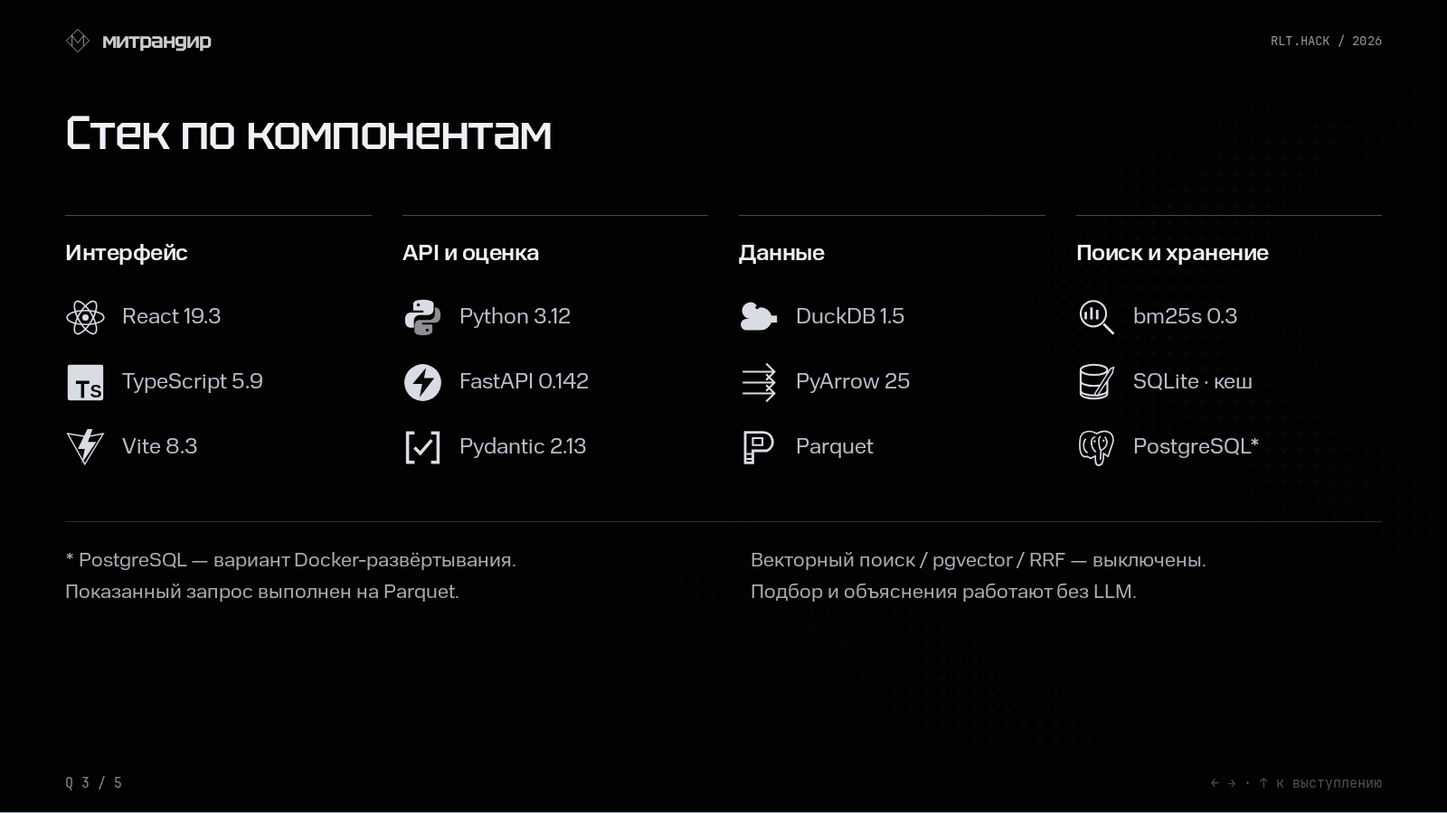
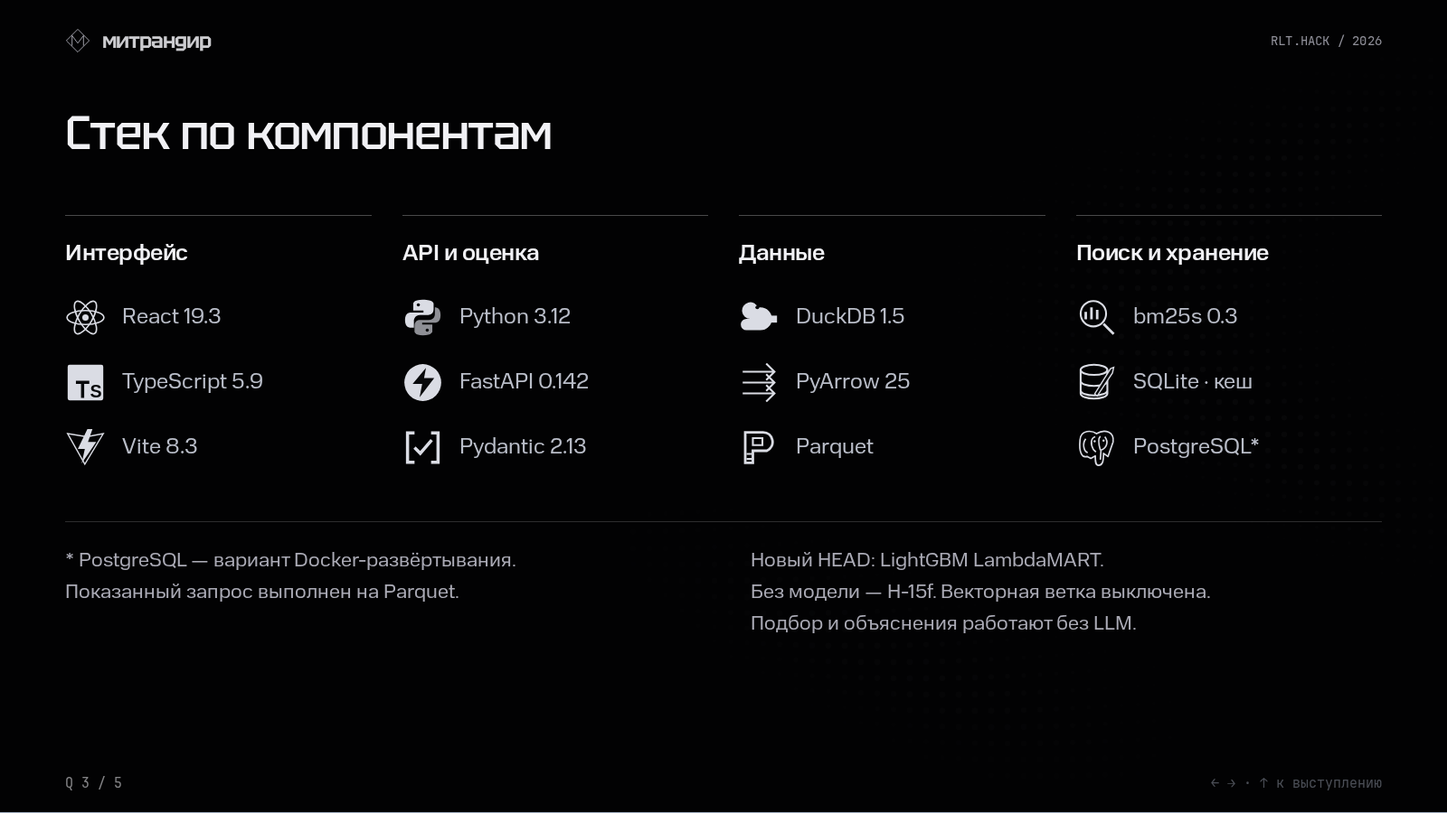
docs(pitch): distinguish captured H-15f example from new ranker (#331)

Changed region(s): [[0.5312, 0.6844, 0.8438, 0.7778]]

diff --git a/presentation/index.html b/presentation/index.html
@@ -38,12 +38,12 @@
 
 <section class="slide" id="s4" data-title="Как лот становится списком" data-seconds="65" data-kind="main" aria-label="Как лот становится списком" hidden>
 
-<h1>Как лот становится списком</h1><p class="slide-deck">BM25 находит тексты. Скоринг сравнивает компании.</p>
+<h1>Как рассчитан этот ответ</h1><p class="slide-deck">Сохранённый пример: BM25 + факторы H-15f.</p>
 <div class="architecture"><svg class="architecture-links" viewBox="0 0 1456 425" aria-hidden="true"><defs><marker id="arrowhead" viewBox="0 0 10 10" refX="9" refY="5" markerWidth="6" markerHeight="6" orient="auto"><path d="M0 0 10 5 0 10" fill="none" stroke="#a5a8b0"/></marker></defs><g fill="none" stroke="#777b86" stroke-width="1.4" marker-end="url(#arrowhead)"><path d="M450 99 H502"/><path d="M952 99 H1004"/><path d="M1230 163 V191 H438 V246"/><path d="M1007 163 V182 H727 V246"/></g></svg>
 <div class="lane-label">Подготовка</div><div class="prep flow"><div class="node"><h2>Выгрузка закупок</h2><p>Лоты · позиции · участия</p><span class="file-mark">CSV</span></div><div class="node"><h2>Нормализация</h2><p>Типы, дубли, ИНН</p><div class="brands"><span class="tech-brand"><img src="assets/tech/python.svg" alt="" width="28" height="28"><span>Python</span></span><span class="tech-brand"><img src="assets/tech/duckdb.svg" alt="" width="28" height="28"><span>DuckDB</span></span></div></div><div class="node"><h2>Данные + индекс текстов</h2><p>Позиции · предметы лотов</p><div class="brands"><span class="tech-brand"><img src="assets/tech/parquet.svg" alt="" width="28" height="28"><span>Parquet</span></span><span class="tech-brand"><img src="assets/tech/bm25s.svg" alt="" width="28" height="28"><span>bm25s</span></span></div></div></div>
 <div class="lane-label query-label">Запрос <span>Читаем подготовленные данные</span></div><div class="query-flow flow"><div class="node" data-step="1"><h2>Запрос / API</h2><p>Описание лота</p><div class="brands"><span class="tech-brand"><img src="assets/tech/react.svg" alt="" width="28" height="28"><span>React</span></span><span class="tech-brand"><img src="assets/tech/fastapi.svg" alt="" width="28" height="28"><span>FastAPI</span></span></div></div><div class="node" data-step="2"><h2>Поиск BM25</h2><p class="stage-count"><small>до</small> 500</p><p>текстов → лоты</p><div class="brands"><span class="tech-brand"><img src="assets/tech/bm25s.svg" alt="" width="28" height="28"><span>bm25s</span></span></div></div><div class="node" data-step="3"><h2>Участники → ИНН</h2><p class="stage-count"><small>до</small> 200</p><p>кандидатов</p><span class="tech">Связь по lot_id</span></div><div class="node" data-step="4"><h2>Ранжирование</h2><p>Score + причины</p><div class="brands"><span class="tech-brand"><img src="assets/tech/python.svg" alt="" width="28" height="28"><span>Python · H-15f</span></span></div></div><div class="node" data-step="5"><h2>Выдача</h2><p>Факты → фильтры<br>→ страница</p><div class="brands"><span class="tech-brand"><img src="assets/tech/react.svg" alt="" width="28" height="28"><span>React</span></span></div></div></div></div>
 <div class="architecture-foot"><span>К выдаче: кеш реестров + отдельный блок «Новые»</span><span>Без LLM · векторная ветка выключена</span></div>
-<aside class="speaker-note" hidden>Верхний контур работает при подготовке данных. Из CSV организаторов DuckDB собирает нормализованные извещения, позиции и участия. Поставщики объединяются по ИНН. В локальном варианте данные хранятся в Parquet; BM25 индексирует уникальные названия позиций и предметы лотов с участниками. Нижний контур обслуживает запрос. React передаёт его FastAPI. Поиск берёт до пятисот текстовых документов, связывает их с лотами, а лоты — с участниками. До двухсот кандидатов получают итоговую оценку и объяснения. Только после ранжирования конвейер добавляет факты из кеша, объединяет отдельный блок найденных через реестры компаний, применяет юридические и пользовательские фильтры. API делит результат на страницы и проверяет показываемые факты. Фоновый воркер может обновлять обогащение. Сейчас включены BM25 и H-15f; векторная ветка реализована отдельно, но выключена. Генеративная модель этому пути не нужна.<br><br>Переход: Из каких конкретно свидетельств складывается оценка компании?</aside>
+<aside class="speaker-note" hidden>Верхний контур работает при подготовке данных. Из CSV организаторов DuckDB собирает нормализованные извещения, позиции и участия. Поставщики объединяются по ИНН. В локальном варианте данные хранятся в Parquet; BM25 индексирует уникальные названия позиций и предметы лотов с участниками. Нижний контур обслуживает запрос. React передаёт его FastAPI. Поиск берёт до пятисот текстовых документов, связывает их с лотами, а лоты — с участниками. До двухсот кандидатов получают итоговую оценку и объяснения. Только после ранжирования конвейер добавляет факты из кеша, объединяет отдельный блок найденных через реестры компаний, применяет юридические и пользовательские фильтры. API делит результат на страницы и проверяет показываемые факты. Фоновый воркер может обновлять обогащение. В этом сохранённом ответе работал H-15f. В новом коде после этих факторов включён обученный LightGBM LambdaMART; это отдельная версия ранжирования. Векторная ветка выключена. Генеративная модель не нужна.<br><br>Переход: Из каких конкретно свидетельств складывается оценка компании?</aside>
 </section>
 
 <section class="slide" id="s5" data-title="126 лотов за оценкой" data-seconds="55" data-kind="main" aria-label="За оценкой — история компании" hidden>
@@ -51,14 +51,14 @@
 <h1>126 лотов за оценкой</h1><p class="slide-deck">ТСК ВЕКТОР ЛАЙН · картриджи для принтеров</p>
 <div class="explanation"><div class="evidence-card"><div class="evidence-counts"><div><strong>126</strong><span>похожих лотов</span></div><div><strong>36</strong><span>побед</span></div></div><div class="lot-proof"><span>Лот № 5424546 · 02.12.2024</span><blockquote>«Поставка картриджей<br>для принтеров»</blockquote><p>Компания участвовала в закупке.</p></div></div>
 <div class="factors"><div class="factor" data-step="1"><div><h2>Соответствие</h2><code>1 × 0.762</code></div><p>Текст + ОКПД2</p><div class="meter"><i style="width:76.2%"></i></div></div><div class="factor" data-step="2"><div><h2>Опыт</h2><code>1 × 0.190</code></div><p>Похожие лоты и победы</p><div class="meter mint-meter"><i style="width:19%"></i></div></div><div class="factor" data-step="3"><div><h2>Активность</h2><code>0.9923 × 0.048</code></div><p>Последнее участие: 30.12.2025</p><div class="meter lilac-meter"><i style="width:4.76304%"></i></div></div></div>
-<div class="score-total"><span>Score</span><strong>0.9996</strong><p>Рейтинг<br>кандидата</p></div></div>
+<div class="score-total"><span>Score</span><strong>0.9996</strong><p>Рейтинг<br>в примере</p></div></div>
 <p class="takeaway compact">Участие и победы не доказывают качество поставки.</p>
 <aside class="speaker-note" hidden>Вернёмся к картриджам. Среди свидетельств — лот 5424546 с таким же названием позиции; компания участвовала в нём второго декабря 2024 года. Соответствие товара объединяет нормированный BM25 и глубину совпадения ОКПД2 по истории компании. Опыт учитывает сто двадцать шесть похожих лотов и тридцать шесть побед, но насыщается: больше истории не повышает его бесконечно. Активность здесь — последнее участие за день до конца выгрузки. Умножаем три значения на стандартные веса и получаем 0.9996. Первые четыре результата имеют такой же итог: порядок при равенстве задают BM25, затем ИНН. Мы не утверждаем, что первая компания объективно лучше всех. Цена и надёжность исполнения в оценку не входят — этих данных нет.<br><br>Переход: Проверили ли мы, что этот способ ранжирования полезнее одного текстового сходства?</aside>
 </section>
 
 <section class="slide" id="s6" data-title="49,1% вместо 44,9%" data-seconds="55" data-kind="main" aria-label="49,1% вместо 44,9%" hidden>
 
-<h1>49,1% вместо 44,9%</h1><p class="slide-deck">Полнота первых 10 поставщиков · Recall@10</p>
+<h1>49,1% вместо 44,9%</h1><p class="slide-deck">Recall@10 · исторический вариант H-15f</p>
 <div class="evaluation"><div class="chart" role="img" aria-label="Recall at 10: BM25 44,9%, H-15f 49,1%. Общая шкала 0–100%; показаны 95-процентные bootstrap-интервалы."><div class="chart-row"><div class="chart-title">BM25 <strong>44,9%</strong></div><div class="chart-track"><span style="width:44.9076136364%"></span><i style="left:42.8813758568%;width:4.0048732864%"></i></div></div><div class="chart-row current"><div class="chart-title">BM25 + скоринг H-15f <strong>49,1%</strong></div><div class="chart-track"><span style="width:49.0522979798%"></span><i style="left:47.1269041757%;width:3.9488530844%"></i></div></div><div class="chart-axis"><span>0%</span><span>50%</span><span>100%</span></div></div>
 <div class="eval-context"><div class="delta"><strong>+4,14</strong><span>процентного пункта</span></div><div class="sample"><b>2 000</b><span>одинаковых dev-запросов</span></div></div></div>
 <div class="eval-boundary"><span>Релевантность: участники из истории</span><span>Веса настроены на dev; holdout не измерен</span></div>
@@ -73,13 +73,13 @@
 <aside class="speaker-note" hidden>Уже работает полный сценарий: описать потребность, получить поставщиков, проверить основания и выгрузить список. REST API и OpenAPI дают интерфейс для подключения, но внедрение в АИС ГЗ пока не подтверждено. Следующий практический шаг — согласовать пилот и проверить рекомендации с заказчиком на независимой выборке. На экране оставлены основания результата и материалы для ваших вопросов.<br><br>Переход: Пауза для вопросов. Запасные слайды открываются только вручную.</aside>
 </section>
 
-<section class="slide" id="b1" data-title="Как именно считается score?" data-seconds="0" data-kind="backup" aria-label="Как именно считается score?" hidden><h1>Из чего складывается score</h1><div class="formula-main">S = <span>0.762 F</span> + <span class="mint">0.190 E</span> + <span class="lilac">0.048 A</span></div><div class="backup-grid"><article class="node"><h2>F · соответствие</h2><code>0.8 B + 0.2 D</code><p>B = BM25 / лучший BM25<br>D = глубина ОКПД2<br>1 / 0.75 / 0.5 / 0.25 / 0</p><p>Без кода: F = B</p></article><article class="node"><h2>E · опыт</h2><code>½ sat(L,20) + ½ sat(W,10)</code><p>sat(n,c) = min(1,<br>ln(1+n) / ln(1+c))</p><p>L — похожие лоты<br>W — победы в них</p></article><article class="node"><h2>A · активность</h2><code>2<sup>−дни / 90</sup></code><p>От последнего участия<br>до конца данных.<br>В backtest — до cutoff.</p><p>Это не готовность ответить.</p></article></div><p class="backup-note">Компоненты и итог округляются до 4 знаков. Равенство: score ↓, BM25 ↓, ИНН ↑.<br>География — вес 0. Цена / reliability — нет данных. Пресеты UI не меняют API/XLSX.</p><aside class="speaker-note" hidden>B — лучший BM25 компании, делённый на максимум среди кандидатов. D — глубина совпадения ОКПД2: точный код один, подкатегория 0.75, группа 0.5, класс 0.25; при отсутствии кода запроса используется только B. sat(n,c) — минимум единицы и ln(1+n)/ln(1+c). L и W считаются среди найденных похожих лотов. Дата активности в продукте — конец данных. Компоненты округляются до четырёх знаков до суммирования. География отображается с нулевым весом, цена и reliability недоступны. Браузерные пресеты меняют только локально полученные результаты, экспорт остаётся стандартным.<br><br>Переход: Вернуться к основному экрану / выбрать другой вопрос.</aside></section>
+<section class="slide" id="b1" data-title="Как именно считается score?" data-seconds="0" data-kind="backup" aria-label="Как именно считается score?" hidden><h1>Формула показанного примера</h1><div class="formula-main">S = <span>0.762 F</span> + <span class="mint">0.190 E</span> + <span class="lilac">0.048 A</span></div><div class="backup-grid"><article class="node"><h2>F · соответствие</h2><code>0.8 B + 0.2 D</code><p>B = BM25 / лучший BM25<br>D = глубина ОКПД2<br>1 / 0.75 / 0.5 / 0.25 / 0</p><p>Без кода: F = B</p></article><article class="node"><h2>E · опыт</h2><code>½ sat(L,20) + ½ sat(W,10)</code><p>sat(n,c) = min(1,<br>ln(1+n) / ln(1+c))</p><p>L — похожие лоты<br>W — победы в них</p></article><article class="node"><h2>A · активность</h2><code>2<sup>−дни / 90</sup></code><p>От последнего участия<br>до конца данных.<br>В backtest — до cutoff.</p><p>Это не готовность ответить.</p></article></div><p class="backup-note">Компоненты и итог округляются до 4 знаков. Равенство: score ↓, BM25 ↓, ИНН ↑.<br>География — вес 0. Цена / reliability — нет данных. Новая модель меняет порядок отдельно.</p><aside class="speaker-note" hidden>B — лучший BM25 компании, делённый на максимум среди кандидатов. D — глубина совпадения ОКПД2: точный код один, подкатегория 0.75, группа 0.5, класс 0.25; при отсутствии кода запроса используется только B. sat(n,c) — минимум единицы и ln(1+n)/ln(1+c). L и W считаются среди найденных похожих лотов. Дата активности в продукте — конец данных. Компоненты округляются до четырёх знаков до суммирования. География отображается с нулевым весом, цена и reliability недоступны. Браузерные пресеты меняют только локально полученные результаты, экспорт остаётся стандартным.<br><br>Переход: Вернуться к основному экрану / выбрать другой вопрос.</aside></section>
 
 <section class="slide" id="b2" data-title="Что проверяет backtest — и чего он не доказывает?" data-seconds="0" data-kind="backup" aria-label="Что проверяет backtest — и чего он не доказывает?" hidden><h1>Что именно измеряли</h1><div class="timeline"><div><b>История</b><span>до 01.07.2025</span></div><div class="selected"><b>Dev · 2 000 запросов</b><span>июль–сентябрь 2025</span></div><div class="pending"><b>Holdout</b><span>нет результата</span></div></div>
 <div class="eval-detail"><table><thead><tr><th>Метрика</th><th>BM25</th><th>H-15f</th></tr></thead><tbody><tr><td>Recall@10</td><td>0,449</td><td>0,491</td></tr><tr><td>MRR</td><td>0,358</td><td>0,374</td></tr><tr><td>nDCG@10</td><td>0,344</td><td>0,365</td></tr></tbody></table><div><p>ЭМ — ИНН подавших оферты.<br>АИС ГЗ — исполнители из выгрузки.</p><p>Запрос: предмет, позиции, ОКПД2.<br>Без текущих реестров и блока «Новые».</p><p class="muted">Веса подобраны на dev.<br>Дат появления оферт и побед нет.</p></div></div>
 <aside class="speaker-note" hidden>Все три строки измерены на одних и тех же двух тысячах dev-запросов. Recall@10 — средняя доля известных релевантных ИНН в первых десяти. MRR — обратная позиция первого релевантного ответа, nDCG@10 — качество порядка релевантных ответов в десятке. Релевантность в Электронном магазине задана офертами, в АИС ГЗ — исполнителями из выгрузки. История отсечена первым июля, запросы — июль–сентябрь 2025. Текущие реестры, фильтры по сегодняшним данным и блок новых компаний исключены. Веса настраивались на dev. Отдельных дат оферт и побед нет, поэтому полная доступность каждого факта к историческому моменту не доказана. Независимого holdout нет. Это сохранённые отчёты конкретных версий, не новый замер всего текущего API.<br><br>Переход: Вернуться к основному экрану / выбрать другой вопрос.</aside></section>
 
-<section class="slide" id="b3" data-title="Какие компоненты запускаются на самом деле?" data-seconds="0" data-kind="backup" aria-label="Какие компоненты запускаются на самом деле?" hidden><h1>Стек по компонентам</h1><div class="stack-catalog"><article><h2>Интерфейс</h2><span class="tech-brand"><img src="assets/tech/react.svg" alt="" width="28" height="28"><span>React 19.3</span></span><span class="tech-brand"><img src="assets/tech/typescript.svg" alt="" width="28" height="28"><span>TypeScript 5.9</span></span><span class="tech-brand"><img src="assets/tech/vite.svg" alt="" width="28" height="28"><span>Vite 8.3</span></span></article><article><h2>API и оценка</h2><span class="tech-brand"><img src="assets/tech/python.svg" alt="" width="28" height="28"><span>Python 3.12</span></span><span class="tech-brand"><img src="assets/tech/fastapi.svg" alt="" width="28" height="28"><span>FastAPI 0.142</span></span><span class="tech-brand"><img src="assets/tech/pydantic.svg" alt="" width="28" height="28"><span>Pydantic 2.13</span></span></article><article><h2>Данные</h2><span class="tech-brand"><img src="assets/tech/duckdb.svg" alt="" width="28" height="28"><span>DuckDB 1.5</span></span><span class="tech-brand"><img src="assets/tech/pyarrow.svg" alt="" width="28" height="28"><span>PyArrow 25</span></span><span class="tech-brand"><img src="assets/tech/parquet.svg" alt="" width="28" height="28"><span>Parquet</span></span></article><article><h2>Поиск и хранение</h2><span class="tech-brand"><img src="assets/tech/bm25s.svg" alt="" width="28" height="28"><span>bm25s 0.3</span></span><span class="tech-brand"><img src="assets/tech/sqlite.svg" alt="" width="28" height="28"><span>SQLite · кеш</span></span><span class="tech-brand"><img src="assets/tech/postgresql.svg" alt="" width="28" height="28"><span>PostgreSQL*</span></span></article></div><div class="stack-status"><p>* PostgreSQL — вариант Docker-развёртывания.<br>Показанный запрос выполнен на Parquet.</p><p>Векторный поиск / pgvector / RRF — выключены.<br>Подбор и объяснения работают без LLM.</p></div><aside class="speaker-note" hidden>Снимок сделан на локальном parquet-варианте. PostgreSQL — поддерживаемое хранилище Docker-развёртывания, не база этого снимка. Кеш источников и очередь задач отделены от индекса. Реестровое обогащение может выполняться фоновым воркером, а исторический подбор читает кеш. Векторная ветка существует, но YAML выбирает BM25. Провайдер LLM в реализации возвращает NoLLM. Для показа самой презентации всё это запускать не требуется: это локальные HTML, CSS, JavaScript и снимки.<br><br>Переход: Вернуться к основному экрану / выбрать другой вопрос.</aside></section>
+<section class="slide" id="b3" data-title="Какие компоненты запускаются на самом деле?" data-seconds="0" data-kind="backup" aria-label="Какие компоненты запускаются на самом деле?" hidden><h1>Стек по компонентам</h1><div class="stack-catalog"><article><h2>Интерфейс</h2><span class="tech-brand"><img src="assets/tech/react.svg" alt="" width="28" height="28"><span>React 19.3</span></span><span class="tech-brand"><img src="assets/tech/typescript.svg" alt="" width="28" height="28"><span>TypeScript 5.9</span></span><span class="tech-brand"><img src="assets/tech/vite.svg" alt="" width="28" height="28"><span>Vite 8.3</span></span></article><article><h2>API и оценка</h2><span class="tech-brand"><img src="assets/tech/python.svg" alt="" width="28" height="28"><span>Python 3.12</span></span><span class="tech-brand"><img src="assets/tech/fastapi.svg" alt="" width="28" height="28"><span>FastAPI 0.142</span></span><span class="tech-brand"><img src="assets/tech/pydantic.svg" alt="" width="28" height="28"><span>Pydantic 2.13</span></span></article><article><h2>Данные</h2><span class="tech-brand"><img src="assets/tech/duckdb.svg" alt="" width="28" height="28"><span>DuckDB 1.5</span></span><span class="tech-brand"><img src="assets/tech/pyarrow.svg" alt="" width="28" height="28"><span>PyArrow 25</span></span><span class="tech-brand"><img src="assets/tech/parquet.svg" alt="" width="28" height="28"><span>Parquet</span></span></article><article><h2>Поиск и хранение</h2><span class="tech-brand"><img src="assets/tech/bm25s.svg" alt="" width="28" height="28"><span>bm25s 0.3</span></span><span class="tech-brand"><img src="assets/tech/sqlite.svg" alt="" width="28" height="28"><span>SQLite · кеш</span></span><span class="tech-brand"><img src="assets/tech/postgresql.svg" alt="" width="28" height="28"><span>PostgreSQL*</span></span></article></div><div class="stack-status"><p>* PostgreSQL — вариант Docker-развёртывания.<br>Показанный запрос выполнен на Parquet.</p><p>Новый HEAD: LightGBM LambdaMART.<br>Без модели — H-15f. Векторная ветка выключена.<br>Подбор и объяснения работают без LLM.</p></div><aside class="speaker-note" hidden>Снимок сделан на локальном parquet-варианте. PostgreSQL — поддерживаемое хранилище Docker-развёртывания, не база этого снимка. Кеш источников и очередь задач отделены от индекса. Реестровое обогащение может выполняться фоновым воркером, а исторический подбор читает кеш. Векторная ветка существует, но YAML выбирает BM25. Провайдер LLM в реализации возвращает NoLLM. Для показа самой презентации всё это запускать не требуется: это локальные HTML, CSS, JavaScript и снимки.<br><br>Переход: Вернуться к основному экрану / выбрать другой вопрос.</aside></section>
 
 <section class="slide" id="b4" data-title="Что происходит с компанией без истории?" data-seconds="0" data-kind="backup" aria-label="Что происходит с компанией без истории?" hidden><h1>Поставщики без истории</h1><div class="data-branches"><article class="node"><span class="label">ЕСТЬ В ИСТОРИИ</span><h2>604 452 лота<br>44 196 ИНН</h2><p>Позиции → лоты → участники</p><p class="small">NULL: КПП в 191 359 участиях;<br>ИНН заказчика в 8 449 извещениях.</p></article><span class="divider-or">+</span><article class="node"><span class="label mint">ОТДЕЛЬНЫЙ БЛОК «НОВЫЕ»</span><h2>ОКПД2 → ОКВЭД<br>→ реестр МСП</h2><p>ИНН отсутствует в истории<br>+ проверка источников фактов</p><p class="small">В выбранном офлайн-примере пуст.</p></article></div><p class="takeaway compact">ОКВЭД — основание кандидата, не подтверждение нужного товара</p><p class="caption">Локальная проверка Parquet · ingest 01.10.2026 · сопоставление ОКПД2 / ОКВЭД эвристическое</p><aside class="speaker-note" hidden>Основной подбор опирается на связь компании с лотами. Если этой истории нет, реализована отдельная ветка: код категории сопоставляется с ОКВЭД, в реестре МСП ищутся компании, их ИНН проверяются на отсутствие в истории и факты проходят Evidence. Сопоставление категорий с оптовой торговлей задано вручную. Поэтому основание новой рекомендации слабее прямого свидетельства по позиции; роль по ОКВЭД не доказывает производство конкретного товара. В выбранном офлайн-запросе новых компаний нет. Данные организаторов тоже неполны: у части участий отсутствует КПП, а у части извещений — ИНН заказчика.<br><br>Переход: Вернуться к основному экрану / выбрать другой вопрос.</aside></section>
 

diff --git a/presentation/storyboard.md b/presentation/storyboard.md
@@ -52,7 +52,7 @@
 
 Теперь разберём, как получается этот ответ.
 
-## S4. Как лот становится списком
+## S4. Как рассчитан этот ответ
 
 - Вопрос аудитории: Каковы компоненты и порядок выполнения?
 - Главный тезис: Сначала найти документы, затем собрать ИНН, оценить компании, добавить факты и отфильтровать.
@@ -62,7 +62,7 @@
 
 ### Текст выступления
 
-Верхний контур работает при подготовке данных. Из CSV организаторов DuckDB собирает нормализованные извещения, позиции и участия. Поставщики объединяются по ИНН. В локальном варианте данные хранятся в Parquet; BM25 индексирует уникальные названия позиций и предметы лотов с участниками. Нижний контур обслуживает запрос. React передаёт его FastAPI. Поиск берёт до пятисот текстовых документов, связывает их с лотами, а лоты — с участниками. До двухсот кандидатов получают итоговую оценку и объяснения. Только после ранжирования конвейер добавляет факты из кеша, объединяет отдельный блок найденных через реестры компаний, применяет юридические и пользовательские фильтры. API делит результат на страницы и проверяет показываемые факты. Фоновый воркер может обновлять обогащение. Сейчас включены BM25 и H-15f; векторная ветка реализована отдельно, но выключена. Генеративная модель этому пути не нужна.
+Верхний контур работает при подготовке данных. Из CSV организаторов DuckDB собирает нормализованные извещения, позиции и участия. Поставщики объединяются по ИНН. В локальном варианте данные хранятся в Parquet; BM25 индексирует уникальные названия позиций и предметы лотов с участниками. Нижний контур обслуживает запрос. React передаёт его FastAPI. Поиск берёт до пятисот текстовых документов, связывает их с лотами, а лоты — с участниками. До двухсот кандидатов получают итоговую оценку и объяснения. Только после ранжирования конвейер добавляет факты из кеша, объединяет отдельный блок найденных через реестры компаний, применяет юридические и пользовательские фильтры. API делит результат на страницы и проверяет показываемые факты. Фоновый воркер может обновлять обогащение. В сохранённом примере работал H-15f. Новый HEAD включает LightGBM LambdaMART после вычисления факторов; это отдельная версия. Векторная ветка выключена; LLM не требуется.
 
 ### Переход
 
@@ -116,7 +116,7 @@
 
 Пауза для вопросов. Запасные слайды открываются только вручную.
 
-## B1. Из чего складывается score
+## B1. Формула показанного примера
 
 - Вопрос аудитории: Как считается итог?
 - Главный тезис: Три фактора с фиксированными весами; точная формула воспроизводима.

diff --git a/presentation/README.md b/presentation/README.md
@@ -87,3 +87,7 @@ Playwright берётся из уже установленного `src/ui/node_
 Изменяются только presentation/ и запрошенный архив presentation-backups/. Продуктовый код, его зависимости и конфигурация не изменены. В изолированном окружении проверок использована существующая optional-группа pg; lockfile не менялся.
 
 Финальная проверка этой редакции: 49 браузерных проверок управления/компоновки, 17 проверок движения, 14 сверок содержания — все пройдены. `make check-changed`: 965 passed, 31 skipped; первоначальная ошибка отсутствующего psycopg устранена установкой уже объявленной optional-группы pg в изолированное окружение. Продуктовые файлы и lockfile не менялись.
+
+Во время подготовки push origin/main обновился до 46fdc52: `configs/search.yaml` теперь включает LightGBM LambdaMART (`ranker: {kind: lgbm, model: models/ranker/R-198-gbm.txt}`). Код `src/match/search.py:496–511` загружает модель после расчёта факторов, при недоступности возвращается к порядку H-15f; `ranker.rerank` задаёт модельный порядок и дополняет объяснения вкладом признаков. Прежние утверждения «обученной модели нет» относятся только к исходному срезу 1086c2c, а не к новому HEAD. На S4/B1 явно указан расчёт **сохранённого примера**; S6 измеряет исторический H-15f. Новая модель и новые eval не приписываются старому ответу. Она отражена на техническом слайде; новый ответ модели в этой задаче не снимался.
+
+После включения нового origin/main 46fdc52 общий `make check-changed` повторно прошёл: **971 passed, 31 skipped**. Подписи сохранённого примера и исторической метрики уточнены; браузерная компоновка повторно проверена.
